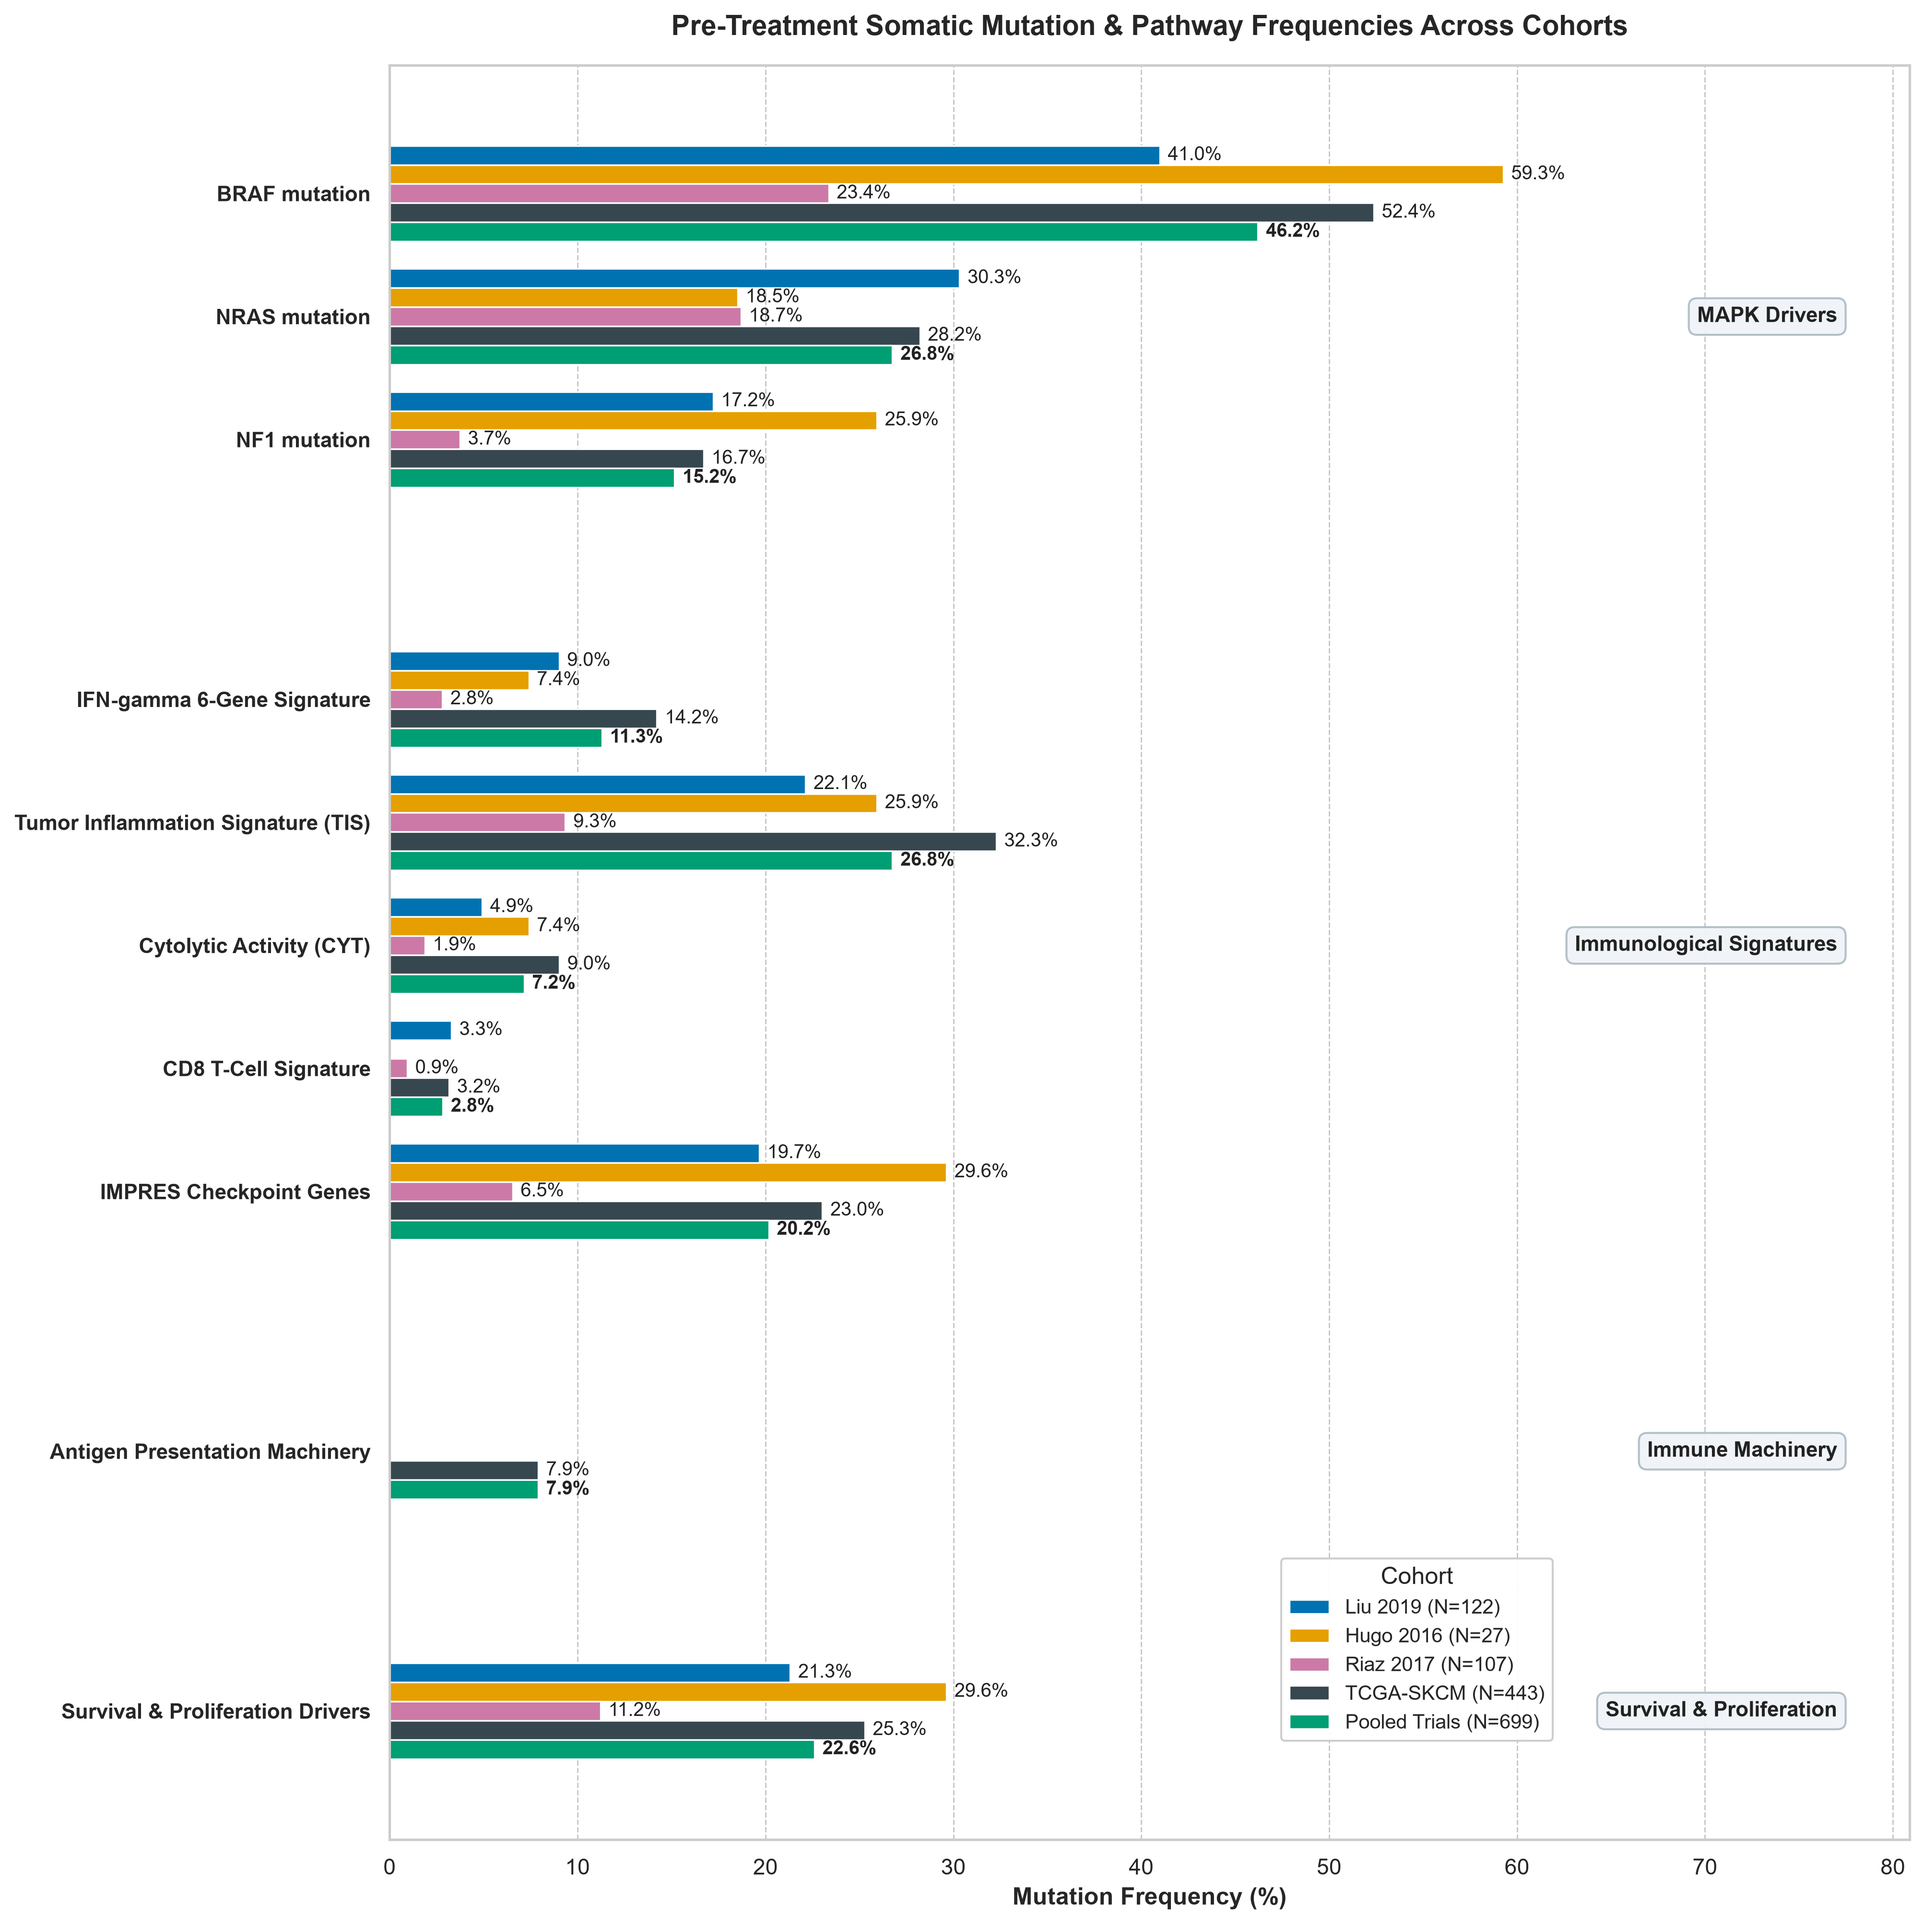
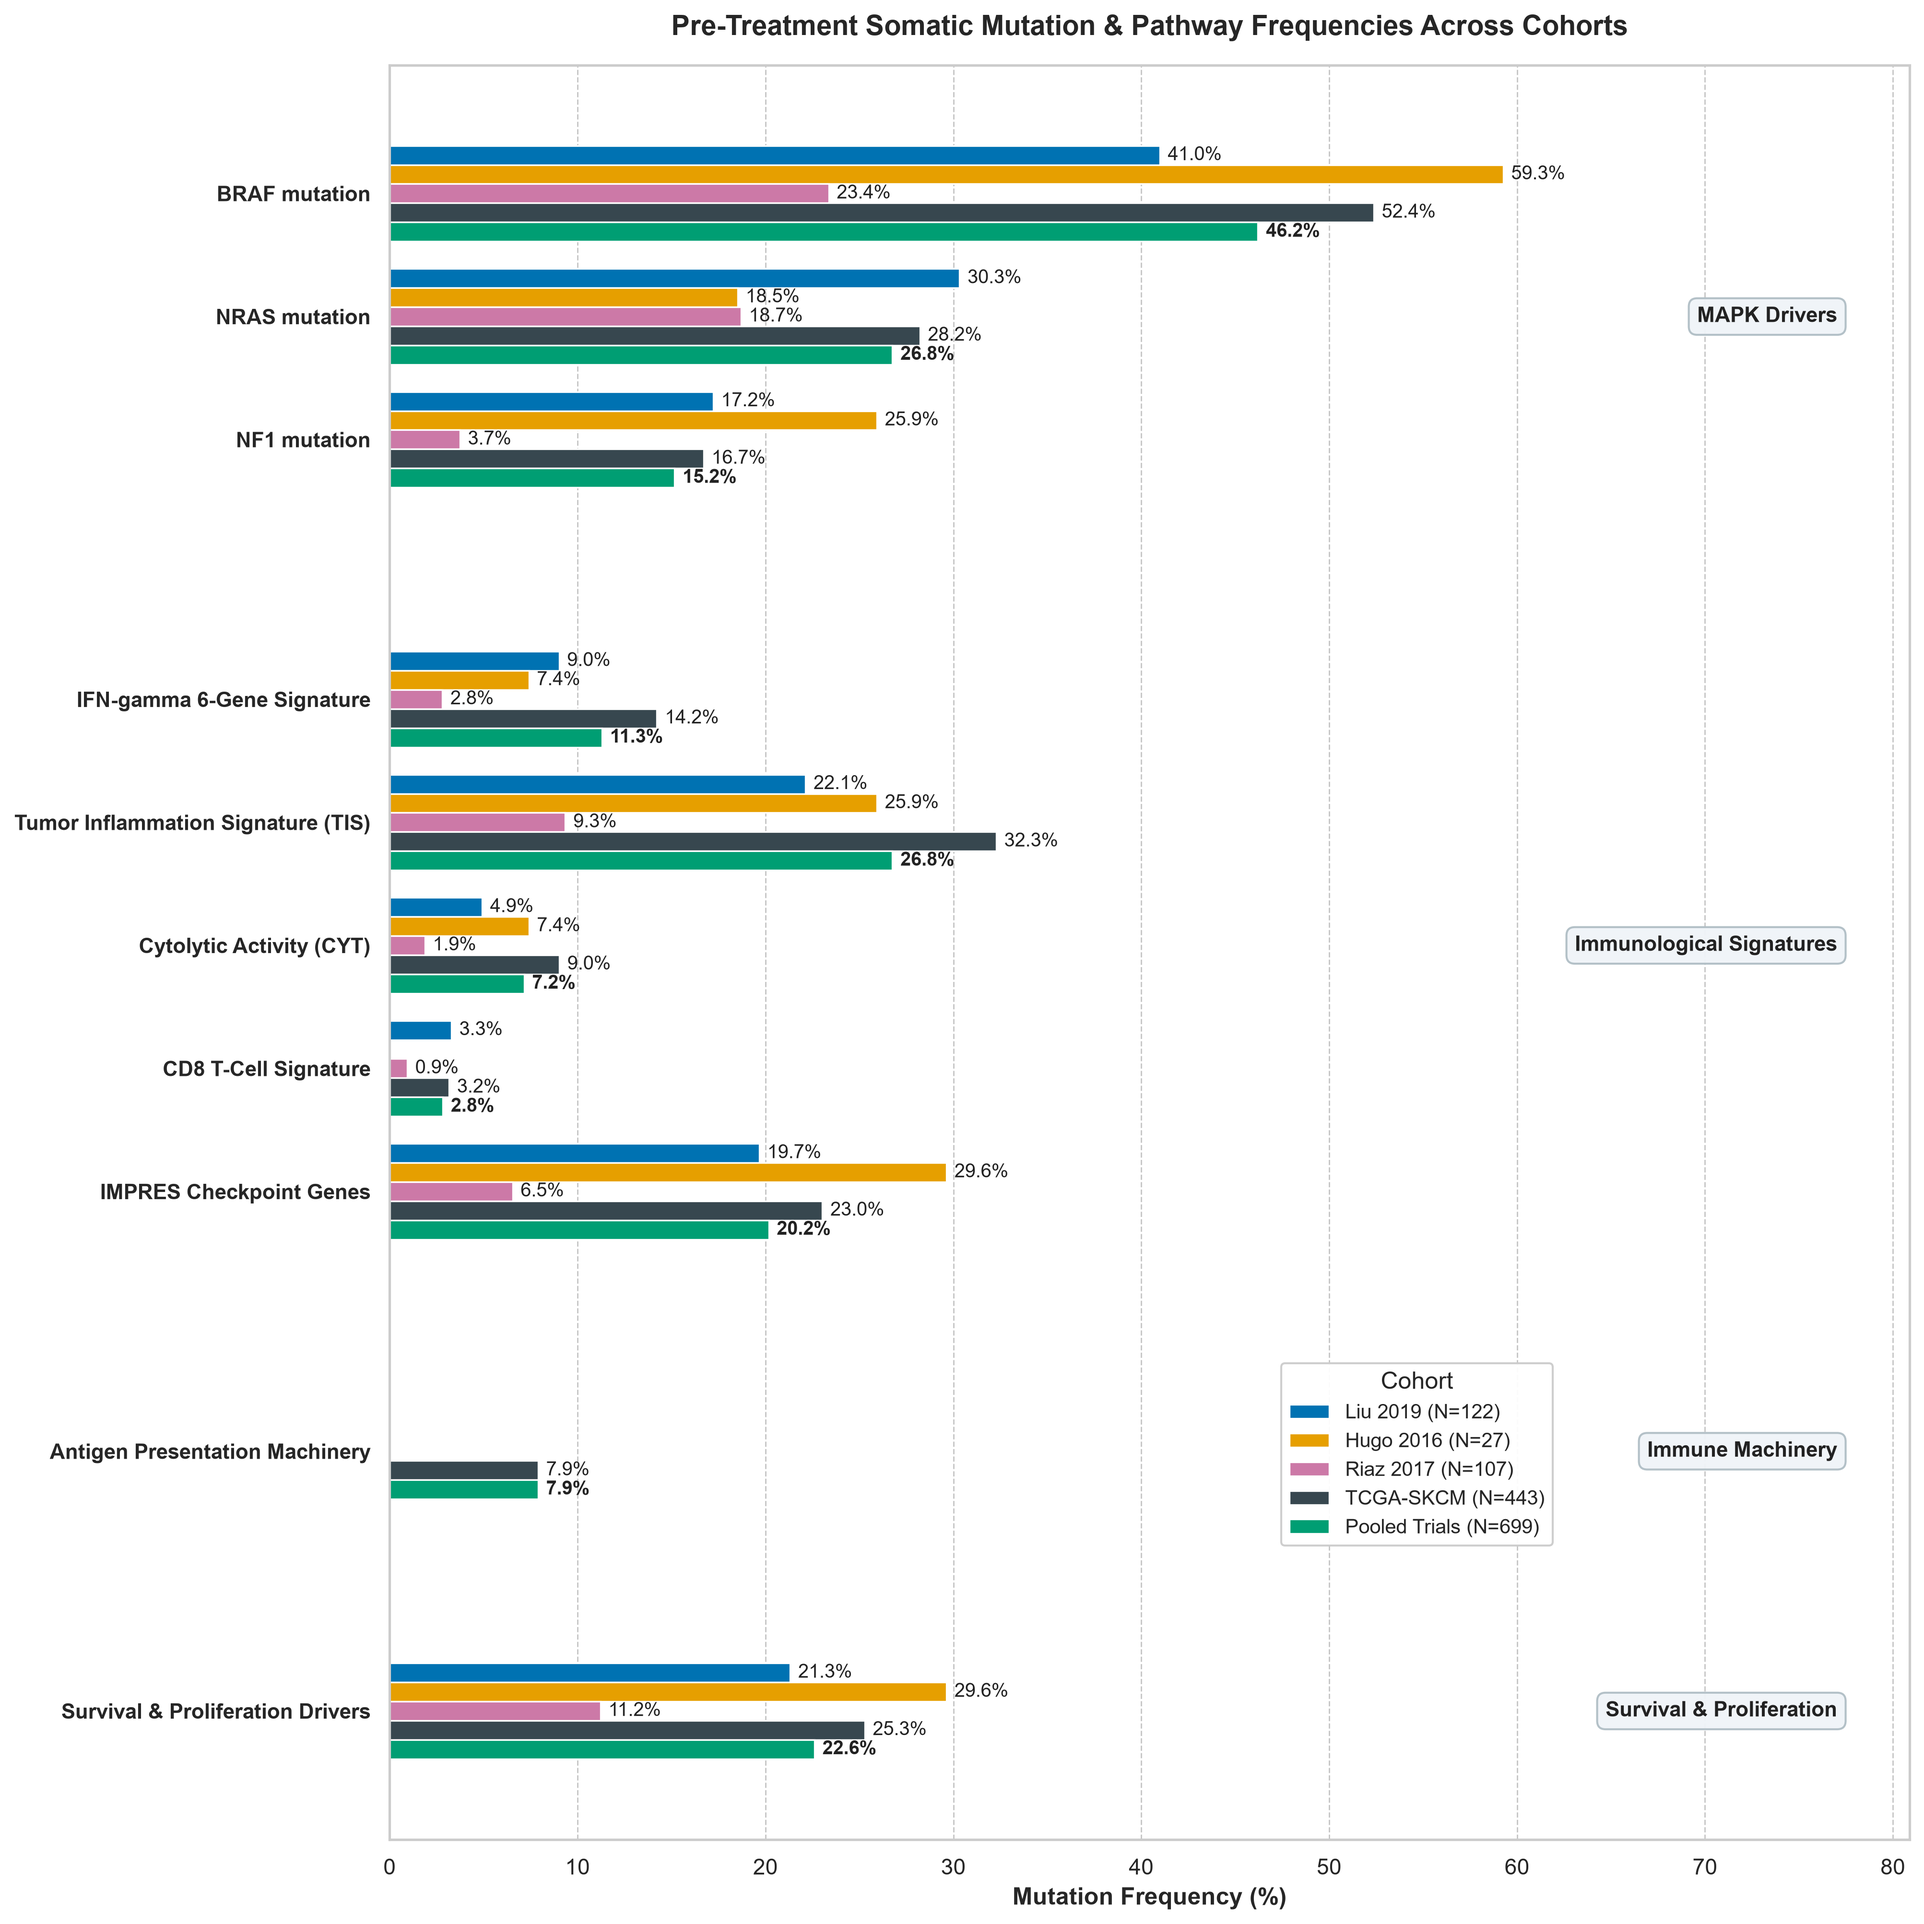
fix(genomic): adjust cohort legend position upward to prevent overlap with bottom bars
- Updated bbox_to_anchor Y coordinate to 0.16 in run_genomic_characterisation.py.
- Re-generated extended_pathway_mutation_frequencies.png and extended_pathway_grouped_bars.png.

Changed region(s): [[0.6545, 0.7168, 0.8103, 0.9038]]

diff --git a/q1-response-predictor/scripts/biomarkers/run_genomic_characterisation.py b/q1-response-predictor/scripts/biomarkers/run_genomic_characterisation.py
@@ -640,7 +640,7 @@ def _plot_extended_pathway_grouped_bars(
 
     ax.legend(
         title="Cohort", frameon=True, facecolor="white", framealpha=0.95,
-        loc="lower left", bbox_to_anchor=(0.58, 0.05),
+        loc="lower left", bbox_to_anchor=(0.58, 0.16),
     )
 
     for cat_name, center_y in cat_centers.items():
@@ -657,6 +657,8 @@ def _plot_extended_pathway_grouped_bars(
 
     out_path = out_dir / "extended_pathway_mutation_frequencies.png"
     save_fig(fig, out_path)
+    out_path_legacy = out_dir / "extended_pathway_grouped_bars.png"
+    save_fig(fig, out_path_legacy)
     print(f"Saved extended pathway mutation frequencies plot to {rel_path(out_path)}")
 
 
